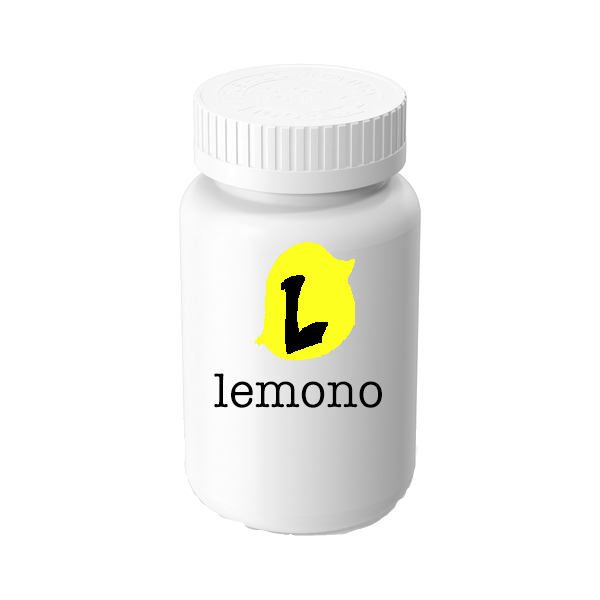
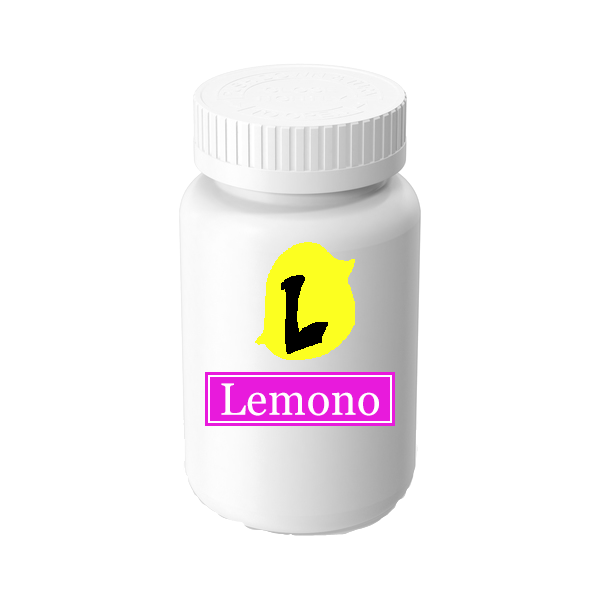
next

Changed region(s): [[0.33, 0.6, 0.66, 0.72]]

diff --git a/ad2-index.html b/ad2-index.html
@@ -28,6 +28,10 @@ second<!DOCTYPE html>
     <!-- NEW | here we load a library called animate.css for basic HTML+CSS animations in the ads below -->
     <link href="https://cdnjs.cloudflare.com/ajax/libs/animate.css/3.7.2/animate.css" rel="stylesheet">
 
+
+    <!--the galada font and raleway font from google-->
+    <link href="https://fonts.googleapis.com/css?family=Galada|Raleway:700&display=swap" rel="stylesheet">
+
     <!-- now for your custom CSS loaded *after* the bootstrap CSS and google fonts are loaded, above-->
     <link href="css/custom2.css" rel="stylesheet">
 
@@ -62,7 +66,7 @@ second<!DOCTYPE html>
   <div id="the-content" class="container">
     <div class="row grad animated bounceInLeft">
       <div class="col-sm-6 col-md-6">
-        <div class="col-sm-6 col-md-12">
+        <div class="col-sm-6 col-md-12 ">
           <img src="images/lemono logo.png" class="logo-container" alt="Italian Trulli">
         </div>
         <div class="col-sm-6 col-md-12">
@@ -70,7 +74,7 @@ second<!DOCTYPE html>
         </div>
       </div>
 
-      <div class="col-sm-6 col-md-6">
+      <div class="col-sm-6 col-md-6 bottle">
         <img src="images/png-medicine-bottle-pill-bottle-600.png" class="logo-container" alt="Italian Trulli">
       </div>
     </div><!-- /row -->
@@ -126,21 +130,48 @@ second<!DOCTYPE html>
       <div class="col-lg-12">
         <h1>Trusted in these locations.</h1>
       </div>
-      <div class="col-lg-4 col-md-6">
+      <div class="col-lg-4 col-md-12">
         <iframe src="https://www.google.com/maps/embed?pb=!1m18!1m12!1m3!1d99370.36297093317!2d-77.08461580023939!3d38.89370913967648!2m3!1f0!2f0!3f0!3m2!1i1024!2i768!4f13.1!3m3!1m2!1s0x89b7c6de5af6e45b%3A0xc2524522d4885d2a!2sWashington%2C%20DC!5e0!3m2!1sen!2sus!4v1571508386121!5m2!1sen!2sus" width="600" height="450" frameborder="0" style="border:0;" allowfullscreen="" class="map"></iframe>
       </div>
 
-      <div class="col-lg-4 col-md-6">
+      <div class="col-lg-4 col-md-12">
         <iframe src="https://www.google.com/maps/embed?pb=!1m18!1m12!1m3!1d184551.80858344134!2d-79.51814105054963!3d43.718403810977776!2m3!1f0!2f0!3f0!3m2!1i1024!2i768!4f13.1!3m3!1m2!1s0x89d4cb90d7c63ba5%3A0x323555502ab4c477!2sToronto%2C%20ON%2C%20Canada!5e0!3m2!1sen!2sus!4v1571508430779!5m2!1sen!2sus" width="600" height="450" frameborder="0" style="border:0;" allowfullscreen="" class="map"></iframe>
       </div>
 
-      <div class="col-lg-4 col-md-6">
+      <div class="col-lg-4 col-md-12">
         <iframe src="https://www.google.com/maps/embed?pb=!1m18!1m12!1m3!1d300233.19124883635!2d-118.23484423090969!3d34.02609846969616!2m3!1f0!2f0!3f0!3m2!1i1024!2i768!4f13.1!3m3!1m2!1s0x80c2c75ddc27da13%3A0xe22fdf6f254608f4!2sLos%20Angeles%2C%20CA!5e0!3m2!1sen!2sus!4v1571508471347!5m2!1sen!2sus" width="600" height="450" frameborder="0" style="border:0;" allowfullscreen="" class="map"></iframe>
       </div>
 
      </div><!-- /row -->
     <div class="row ">
       <h1>This website is sponsored by the movie, <a href="file:///Volumes/COLEGWORK/WebDev/project2/ad2-index.html" target="_blank">Mr. Spaghetti: Dangerous Maze</a></h1>
+    </div>
+
+    <div class="row animated bounceInLeft desktop">
+      
+      <div class="col-md-4">
+        <h3>Side effects of using Lemono include:</h3>
+        <ul>
+          <li>Headache</li>
+          <li>Stomach-ache</li>
+          <li>Knee Sweating</li>
+          <li>Cysts</li>
+          <li>Acne</li>
+          <li>Depression</li>
+          <li>Weight Gain</li>
+          <li>Extreme Memory Loss</li>
+          <li>Self Thigh-Slapping Addiction</li>
+        </ul>
+      </div>
+
+      <div class="col-md-4">
+        
+      </div>
+
+      <div class="col-md-4">
+        
+      </div>
+
     </div>
 </div> <!-- /container -->
 

diff --git a/css/custom2.css b/css/custom2.css
@@ -88,6 +88,10 @@ h1.the-headline
   animation-delay: .3s; /*when the element's animation starts*/
 }
 
+h1
+{
+  font-family: impact;
+}
 
 /*
   _     ____  
@@ -105,6 +109,15 @@ h1.the-headline
   margin-top: 2rem;
 }
 
+h2
+{
+  font-family: impact;
+}
+
+h3
+{
+  font-family: impact;
+}
 
 /*
                                               _         
@@ -115,6 +128,11 @@ h1.the-headline
  |_|                    |___/          |_|              
 
  */
+
+p
+{
+  font-family: georgia;
+}
 
  p
  {
@@ -201,7 +219,7 @@ div.bottle
 {
   position: absolute; 
   left: 31rem;
-  bottom: 3rem;
+  bottom: -3rem;
 }
 
 div.big-dot
@@ -262,12 +280,12 @@ div#map
 
 div.grad
 {
-  background-image: linear-gradient(#951cd6, #c7a0db);
+  background-image: linear-gradient(#F0F82C, #888C24);
 }
 
 div.grad2
 {
-  background-image: linear-gradient(#c7a0db, #951cd6);
+  background-image: linear-gradient(#888C24, #F0F82C);
 }
 
 div.grad3
@@ -354,7 +372,7 @@ img.thumbnail
 
  ul
  {
-
+  color: black;
  }
 
 

diff --git a/ad1-index.html b/ad1-index.html
@@ -55,7 +55,15 @@ The metadata can be used by browsers (how to display content or reload page), se
 
     <div class="col-md-12">
       <div class="col-md-12">
-        <img src="images/movie_poster.png" class="animated bounceInDown center" alt="Italian Trulli">
+        <img src="images/movie-poster.png" class="animated bounceInDown center" alt="Italian Trulli">
+      </div>
+
+      <div class="col-md-6 bottle-spag">
+        <img src="images/spag-char.png" class="animated bounceInUp" alt="Italian Trulli">
+      </div>
+
+      <div class="col-md-6 bottle-chef">
+        <img src="images/chef-char.png" class="animated bounceInUp" alt="Italian Trulli">
       </div>
     </div><!-- /jumbotron main-content -->
   </div>

diff --git a/css/custom.css b/css/custom.css
@@ -94,6 +94,13 @@ h1
   font-family: 'Special Elite', cursive;
 }
 
+h1.char1
+{
+  position: absolute;
+  left: 100px;
+  top: 150px;
+}
+
 /*
   _     ____  
  | |__ |___ \ 
@@ -223,6 +230,20 @@ div.bottle
   position: absolute; 
   left: 31rem;
   bottom: 3rem;
+}
+
+div.bottle-spag
+{
+  position: absolute; 
+  right: 30rem;
+  bottom: 8rem;
+}
+
+div.bottle-chef
+{
+  position: absolute; 
+  left: 50rem;
+  bottom: 8rem;
 }
 
 div.big-dot
